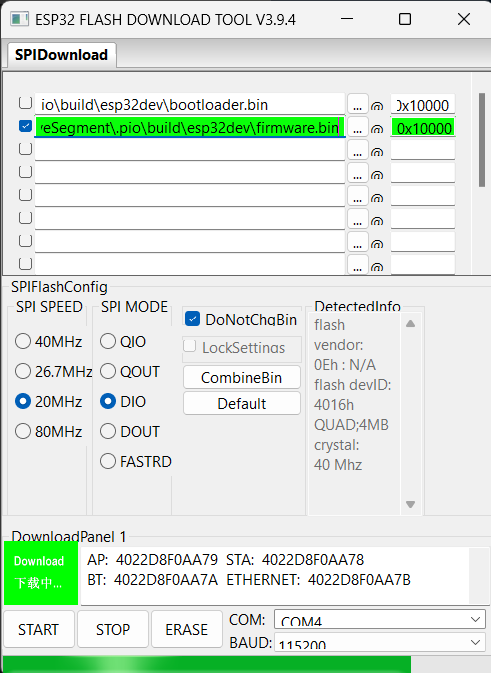
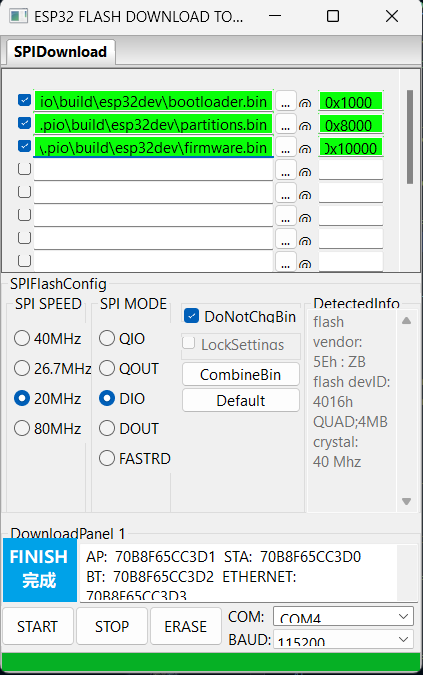
Fixed code upload readme and regenerated binaries

Changed region(s): [[0.0, 0.0, 1.0, 1.0]]

diff --git a/overseer.py b/overseer.py
@@ -15,7 +15,7 @@ from struct import pack, unpack
 # ---------------------- MQTT Setup----------------------#
 # callback function for when a message is received and filter according to topic
 
-segment_count = 20  # number of segments
+segment_count = 40  # number of segments
 overseerCommandPath = "ShiveWorks/overseer/command"
 overseerReturnPath = "ShiveWorks/overseer/return"
 
@@ -433,7 +433,8 @@ while True:
             # after the command is issued, it shall send T-5s to all segments
             millisec = int((time.time() * 1000) + countdown_ms)
             segmentMasterCommand("start::{}".format(millisec))
-            print("Starting the experiment in {} seconds".format(countdown_ms / 1000))
+            print("Starting the experiment in {} seconds".format(
+                countdown_ms / 1000))
 
         case ["reset"]:
             segmentMasterCommand("reset")

diff --git a/PropertyControlFunctions/GEN.py b/PropertyControlFunctions/GEN.py
@@ -30,7 +30,7 @@ n1 = .5  # These are the spatial-temporal volume fractions of the periods
 # Functionally Graded(FG) smoothing properties in space and time -
 # Larger values give more smoothing
 smt_x = .1
-smt_t = .1  # Spatial-Temporal Smoothing
+smt_t = .5  # Spatial-Temporal Smoothing
 
 V = .1  # Lamination velocity -- Only Used for Lamination
 
@@ -52,7 +52,7 @@ xx = X.flatten(order='F')
 tt = T.flatten(order='F')
 
 #### Shive Machine- Set the number of spatial elements and the sample rate ####
-N_SpatElem = 20  # Number of Spatial Elements on the Device
+N_SpatElem = 40  # Number of Spatial Elements on the Device
 Mat1 = 0
 Mat2 = 255  # Material Range from Material 1 to Material 2
 t_SampPeri = 1/1000.  # Time Sample Period in Milliseconds

diff --git a/WaveSegment/src/mqtt.cpp b/WaveSegment/src/mqtt.cpp
@@ -3,7 +3,7 @@
 #include <mqtt.h>
 #include <credentials.h>
 
-#define DEBUG
+// #define DEBUG
 
 WiFiClient wifiClient;
 PubSubClient client(wifiClient);

diff --git a/README.md b/README.md
@@ -48,6 +48,7 @@
 * Connect your computer to the same WiFi network as the ESP32 modules, the network should have access to the outside internet for NTP synchronization
 * Configure your machine to have a static IP address on the same network as the ESP32 modules (using Windows Network and Sharing Center)
   * Set the network type as private
+  * Edit the IP address manually, use IPv4
   * The default IP address your PC (= MQTT server) is 192.168.1.1; this should be outside the dynamic DHCP range of the router
     * Subnet mask is 255.255.254.0, gateway is 192.168.1.0, primary DNS is 192.168.1.0
 * The overseer.py script will automatically connect to the MQTT broker, as they are usually running on the same machine
@@ -125,7 +126,7 @@
 | ----------------- | ------------------------------------ |
 | Button Tap        | Initiate Segment Position Assignment |
 | Button Double Tap | Segment Self-Test                    |
-| Button 2s+ hold   | Restart Segment                      |
+| Button 2s+ hold   | Restart Segment (until white light)  |
 |                   |                                      |
 
 
@@ -133,18 +134,23 @@
 * Segments are numbered starting from 1 to 100
 * All source files are in WaveSegment folder, in the 'src' directory
 * Enter correct local WiFi credential and MQTT broker IP address in credentials.h (rename and fill out sample_credentials.h)
-* Compile and upload main.c to the ESP32
-  * Connect the ESP32 with disconnected battery power to your PC using a micro-USB cable one at a time
-  * Might require installation of [ESP32 drivers](https://docs.espressif.com/projects/esp-idf/en/latest/esp32/get-started/establish-serial-connection.html)
-  * If we want to see diagnostic information, we can use the Serial Monitor in the Arduino IDE with a baud rate of 115200
+* Might require installation of [ESP32 drivers CP210x](https://docs.espressif.com/projects/esp-idf/en/latest/esp32/get-started/establish-serial-connection.html)
 * The latest version of the pre-compiled firmware binary can be found under releases
   * Use the [ESPRESSIF Flash Tool](https://www.espressif.com/en/support/download/other-tools) to flash the .bin file to the ESP32
-    * Click the three dots button and select the firmware.bin file
-    * Set a memory offset of 0x10000, and click START to start the upload
-    * Select a COM port (try multiple if it does not upload), SPI speed of 20MHz, DIO mode, and a BAUD rate of 115200
-  * Connect the ESP32 with disconnected battery power to your PC using a micro-USB cable one at a time
-  
+    1. Select the chip type as "ESP32", and WorkMode as "Develop", then click OK
+    2. Click the three dots button and select the bootloader.bin, partitions.bin, and firmware.bin file (can be found under releases)
+    3. Connect the ESP32 with disconnected battery power to your PC using a micro-USB cable one at a time
+    4. Set memory offsets and check the checkboxes next to the files 
+       1. Set to 0x1000 for the bootloader
+       2. Set to 0x8000 for the partitions
+       3. Set to 0x10000 for the firmware
+    5. Select a COM port (try different ones if it does not upload), SPI speed of 20MHz, DIO mode, and a BAUD rate of 115200
+    6. click START to start the upload
     ![test](./Media/flashTool.png)
+* Code can be compiled from scrath
+  * Compile main.c to the ESP32 platform (recommend use of PlatformIO extension in VSCode)
+  * Connect the ESP32 with disconnected battery power to your PC using a micro-USB cable one at a time
+  * If we want to see diagnostic information at segment runtime (once the segment code is uploaded), use the Serial Monitor in the Arduino IDE with a baud rate of 115200
 
 <!-- * Once the initial sketch has been uploaded through USB, for subsequent uploads an OTA method can be used
   * Compile and upload main.c to the ESP32
